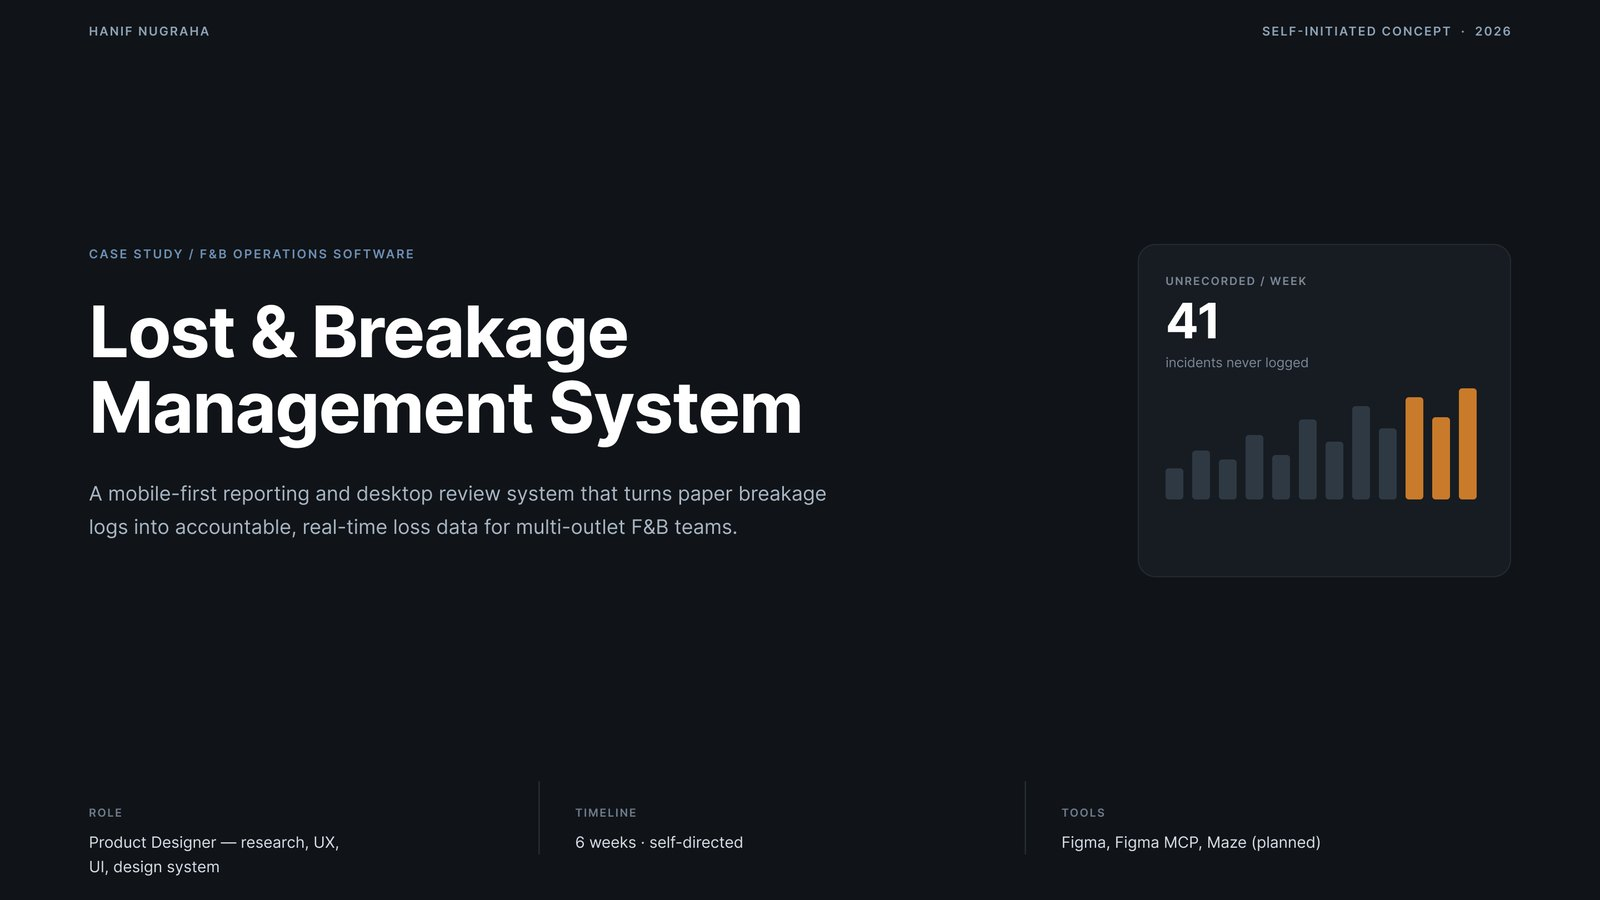
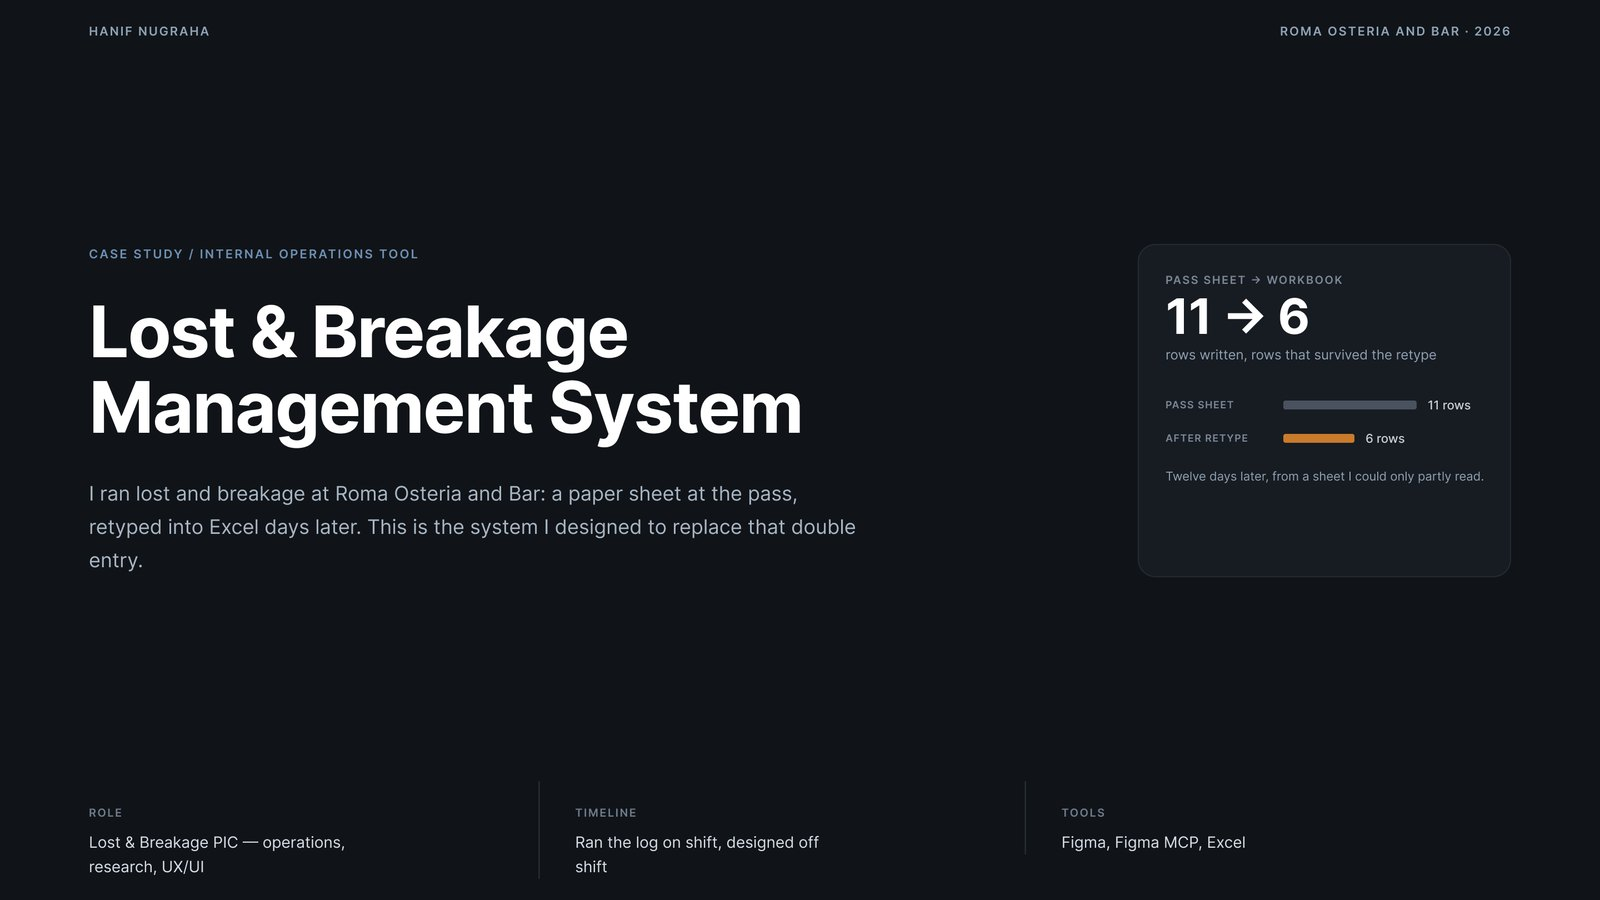
content(lost-breakage): rewrite from the revised Figma case study
The file now tells the first-hand story: running lost and breakage at Roma
Osteria and Bar on a paper pass sheet retyped into Excel, 11 rows written
and 6 surviving the retype. Entry, metrics, findings, limits and the cover
follow the revised deck; the 2-4 percent benchmark and the six-interview
concept framing are gone.

diff --git a/src/data/projects.js b/src/data/projects.js
@@ -127,47 +127,48 @@ export const projects = [
   {
     "slug": "lost-breakage",
     "title": "Lost & Breakage Management System",
-    "kicker": "Self-initiated concept · F&B operations · 2026",
+    "kicker": "Roma Osteria and Bar · Operations and product design · 2026",
     "year": "2026",
-    "role": "Product Designer: research, UX, UI, design system",
+    "role": "Lost & Breakage PIC: operations, research, UX and UI",
     "image": "/projects/lost.jpg",
     "tags": [
-      "UX Research",
+      "Operations",
       "Product Design",
       "Design System"
     ],
-    "summary": "A mobile report flow and a desktop review queue that turn paper breakage logs into accountable loss data for multi-outlet F&B teams.",
-    "details": "Restaurants and cafes lose an estimated 2 to 4 percent of revenue to breakage, spoilage and unrecorded comps, and most of it never gets written down. I designed two surfaces: a report flow staff can finish in under 30 seconds while the guest is still at the table, and a desktop queue where a manager triages, prices and resolves each incident. Six interviews and one Friday dinner service showed the barrier was friction at the moment of reporting, not awareness of the loss.",
+    "summary": "I ran lost and breakage at Roma Osteria and Bar, then designed the system that deletes the retype: one record written at the pass, read by the manager review and the weekly cost view.",
+    "details": "The job was two manual steps. Staff wrote incidents on a paper sheet at the pass when they remembered, and I retyped that sheet into Excel days later. Eleven rows were written in the week I audited, and six survived the retype. The loss was never unknown, it was recorded twice and reliable zero times. The design removes the second step: staff log in under thirty seconds where the break happens, and the manager review and the weekly cost view read from that same record.",
     "metrics": [
       {
-        "label": "Stakeholder interviews",
+        "label": "Pass sheet rows",
+        "value": "11"
+      },
+      {
+        "label": "Survived the retype",
         "value": "6"
       },
       {
-        "label": "Shift observation",
-        "value": "4 hours"
+        "label": "Manual steps",
+        "value": "2 → 1"
       },
       {
-        "label": "Report time, modelled",
-        "value": "4 min → 28 s"
-      },
-      {
-        "label": "Loss categories",
-        "value": "6"
+        "label": "Entry point",
+        "value": "Close → pass"
       }
     ],
     "case": {
-      "context": "An 80-seat outlet loses stock four ways: breakage, spoilage, staff error and unrecorded comps. Three of the four are logged, if at all, on a paper shift sheet clipped to the pass and filled at close from memory. Industry benchmarks put the loss at 2 to 4 percent of revenue. None of the six interviewed outlets could name the top three items lost last month, and the delta surfaced three weeks later at monthly stock count.",
+      "context": "Roma Osteria and Bar runs a full service floor and a bar. An item leaves inventory four ways: breakage, spoilage, staff error and comps that never got charged. One paper sheet covered all four, hanging at the pass and filled in when someone remembered. At close I keyed that sheet into a workbook, and the workbook produced the monthly number. Staff forgot to write, and I sometimes never keyed in what had been written, so the workbook was always smaller than the week and nothing on the page showed which entries had gone.",
       "approach": [
-        "Interviewed six stakeholders separately (two outlet managers, two shift supervisors, one server, one kitchen lead) so manager-led answers would not shape the rest.",
-        "Shadowed four hours of a Friday dinner service at one 80-seat outlet, watching the pass and the closing count. The clipboard was touched eleven times and nobody opened the back-office POS report.",
-        "Audited three existing tools: a generic inventory app, a POS breakage add-on and the spreadsheet still in use at two outlets.",
-        "Grouped 47 observations into four clusters by the moment in the shift where the loss happens, then wrote the five insights that changed the brief.",
+        "Operated the log as the lost and breakage PIC: chased missing entries, retyped the paper sheet and published the monthly number.",
+        "Ran staff conversations informally over months with servers, bar and kitchen staff, no scheduling and no survey, which is why people said plainly that they forget.",
+        "Ran a double-entry audit: consecutive paper sheets compared against the workbook they became, counting how many rows a week started with and how many survived the retyping.",
+        "Grouped 20 notes by the four stages where an incident stops being a record (at the pass, at close, at the retype, after the report) rather than by department.",
         "Designed three flows with a happy path and an edge case each: mobile report, desktop review, desktop analytics.",
-        "Built a design system of 15 tokens and four components, with empty, loading, error and success designed as first-class screens.",
-        "Prototyped the loop report, review, resolve, analytics, including a 120 ms cause-chip interaction tuned to a user who is standing up."
+        "Built a design system of 15 tokens and four components, with empty, loading, error and success treated as first-class screens.",
+        "Prototyped the loop report, review, resolve, analytics, with the cause chip tuned to someone standing up mid-service."
       ],
       "deliverables": [
+        "One record per incident, so the manager review and the weekly rollup read what staff entered and nothing is retyped.",
         "Mobile report flow in three screens (category, detail, confirmation): four taps, and the item name is the only keyboard moment.",
         "Desktop review queue with an incident detail view that keeps the decision panel next to the evidence.",
         "Analytics with cost trend, ranked items, cost by cause and resolution stats, plus CSV export for the accountant.",
@@ -176,11 +177,11 @@ export const projects = [
         "Five-screen clickable prototype covering report, review, resolution and the updated week total."
       ],
       "findings": [
-        "Every participant could name the three items lost most often. None could put a number on them, so detection was never the problem.",
-        "Staff avoided writing their name because they assumed the cost would come out of their pay. The field that made the data useful was the field that killed the entry.",
-        "Half the loss had a cause the log never captured: a walk-in that ran warm on Fridays, deliveries that arrived short.",
-        "Managers wanted a Monday conversation with one person about one item, not a chart review.",
-        "Paper survived because it lived on the pass. Any tool on a back-office PC lost to it by default."
+        "The record broke at the pass, not in the report. Everyone knew what broke and roughly how much, and nobody stopped service to write it down.",
+        "Forgetting was rational. Nothing during service prompts a report, and at close the sheet competes with cleaning, cash-up and going home.",
+        "The retype was where rows actually disappeared: eleven written in the week, six in the workbook, with nothing on the page flagging the gap.",
+        "A row without a reporter, a shift and a cause is a number. It can be reported, it cannot be acted on as training, a supplier claim or maintenance.",
+        "Everyone could name the top three items, glasses, plates and milk, in seconds. Nobody could give volume, shift or cause."
       ],
       "implications": [
         "Remove every field the system can stamp: shift, outlet and reporter come from the session.",
@@ -189,8 +190,8 @@ export const projects = [
         "Treat the taxonomy as the product: six categories, each mapping to a different operational fix.",
         "Design empty, loading and error states with the same care as the happy path. A loss tool that looks broken is a tool nobody uses."
       ],
-      "limits": "Self-initiated concept, not a shipped product. The improvement figures are modelled pilot targets, not measured outcomes: time to report 4 minutes to 28 seconds, incident capture 61 to 94 percent, resolution 3.2 days to 1.1 days, cost recovered from none to IDR 1.2M per outlet per month. The baseline comes from observation and interviews; the target column is a goal. No POS integration, no inventory reconciliation and no production data.",
-      "team": "Solo project. Research, flows, wireframes, interface, design system and prototype, built in Figma with Figma MCP; Maze was planned for the pilot test."
+      "limits": "The system is designed, not shipped. The figures on the left are first-hand: I did this job, and the eleven-to-six row drop comes from the paper sheets and the workbook they became. Everything else is a goal a pilot has to prove, not a measured result: entry in under 30 seconds at the pass, capture of 90 percent or more against a weekly audit of twenty incidents, resolution under one day with a named reviewer, and IDR 1.2M a month identified and acted on. No POS integration, no inventory reconciliation and no production data.",
+      "team": "Solo, in both roles. I owned the process at Roma Osteria and Bar and designed its replacement; the case study was built in Figma with Figma MCP. Colleague quotes are unattributed by role and cleaned for readability."
     }
   },
   {
